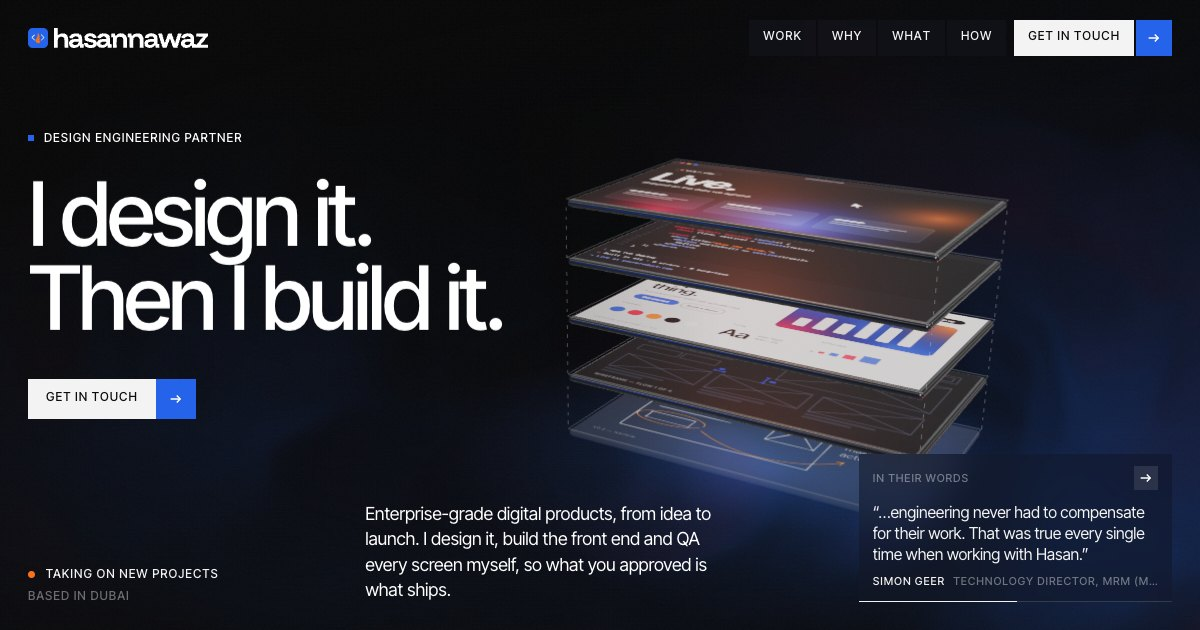
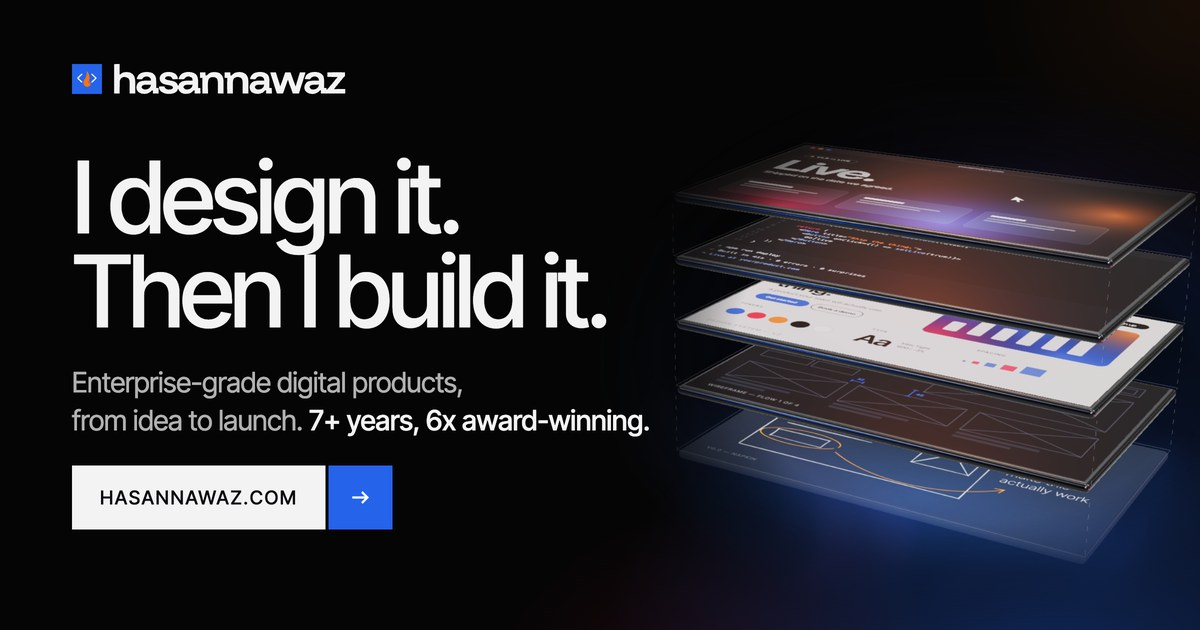
Designed link previews for the home page and every article
A 1200x630 card for the home page (headline, offer, CTA, the 3D stack) and one per
article with its title and read time. Adds og:image:alt and twitter:image, gives the
home card a new URL so cached previews refresh, and points the article template at
each article's own card.

diff --git a/thoughts/designing-for-habit.html b/thoughts/designing-for-habit.html
@@ -11,10 +11,12 @@
   <meta property="og:site_name" content="Hasan Nawaz">
   <meta property="og:title" content="Designing for Habit: How Small UX Decisions Drive Long-Term Engagement | Hasan Nawaz">
   <meta property="og:description" content="Building a product that people come back to isn’t just about flashy visuals or clever features. It’s about creating experiences that naturally fit into…">
-  <meta property="og:image" content="https://hasannawaz.com/assets/og.jpg">
+  <meta property="og:image" content="https://hasannawaz.com/assets/og/designing-for-habit.jpg">
+  <meta property="og:image:alt" content="Designing for Habit: How Small UX Decisions Drive Long-Term Engagement, by Hasan Nawaz">
   <meta property="og:image:width" content="1200">
   <meta property="og:image:height" content="630">
   <meta name="twitter:card" content="summary_large_image">
+  <meta name="twitter:image" content="https://hasannawaz.com/assets/og/designing-for-habit.jpg">
   <meta name="theme-color" content="#eceef1">
   <link rel="icon" href="../favicon.ico" sizes="48x48">
   <link rel="icon" href="../assets/favicon.svg" type="image/svg+xml">

diff --git a/thoughts/empty-states.html b/thoughts/empty-states.html
@@ -11,10 +11,12 @@
   <meta property="og:site_name" content="Hasan Nawaz">
   <meta property="og:title" content="The Power of Empty States: Why the First Blank Screen Matters | Hasan Nawaz">
   <meta property="og:description" content="When we think about product design, we often focus on the big things like the homepage, the main flow, or the dashboard full of data. But what about…">
-  <meta property="og:image" content="https://hasannawaz.com/assets/og.jpg">
+  <meta property="og:image" content="https://hasannawaz.com/assets/og/empty-states.jpg">
+  <meta property="og:image:alt" content="The Power of Empty States: Why the First Blank Screen Matters, by Hasan Nawaz">
   <meta property="og:image:width" content="1200">
   <meta property="og:image:height" content="630">
   <meta name="twitter:card" content="summary_large_image">
+  <meta name="twitter:image" content="https://hasannawaz.com/assets/og/empty-states.jpg">
   <meta name="theme-color" content="#eceef1">
   <link rel="icon" href="../favicon.ico" sizes="48x48">
   <link rel="icon" href="../assets/favicon.svg" type="image/svg+xml">

diff --git a/thoughts/dark-patterns.html b/thoughts/dark-patterns.html
@@ -11,10 +11,12 @@
   <meta property="og:site_name" content="Hasan Nawaz">
   <meta property="og:title" content="The Hidden Cost of Dark Patterns in Product Design | Hasan Nawaz">
   <meta property="og:description" content="Dark patterns are design choices that trick users into doing something they did not intend. They might boost short term metrics, but they almost always…">
-  <meta property="og:image" content="https://hasannawaz.com/assets/og.jpg">
+  <meta property="og:image" content="https://hasannawaz.com/assets/og/dark-patterns.jpg">
+  <meta property="og:image:alt" content="The Hidden Cost of Dark Patterns in Product Design, by Hasan Nawaz">
   <meta property="og:image:width" content="1200">
   <meta property="og:image:height" content="630">
   <meta name="twitter:card" content="summary_large_image">
+  <meta name="twitter:image" content="https://hasannawaz.com/assets/og/dark-patterns.jpg">
   <meta name="theme-color" content="#eceef1">
   <link rel="icon" href="../favicon.ico" sizes="48x48">
   <link rel="icon" href="../assets/favicon.svg" type="image/svg+xml">

diff --git a/thoughts/mlp-over-mvp.html b/thoughts/mlp-over-mvp.html
@@ -11,10 +11,12 @@
   <meta property="og:site_name" content="Hasan Nawaz">
   <meta property="og:title" content="MLP over MVP: why lovable is the better business bet | Hasan Nawaz">
   <meta property="og:description" content="For years, MVP was the default. Build the smallest thing that works, ship it, learn from it. That made sense when getting anything out the door was…">
-  <meta property="og:image" content="https://hasannawaz.com/assets/og.jpg">
+  <meta property="og:image" content="https://hasannawaz.com/assets/og/mlp-over-mvp.jpg">
+  <meta property="og:image:alt" content="MLP over MVP: why lovable is the better business bet, by Hasan Nawaz">
   <meta property="og:image:width" content="1200">
   <meta property="og:image:height" content="630">
   <meta name="twitter:card" content="summary_large_image">
+  <meta name="twitter:image" content="https://hasannawaz.com/assets/og/mlp-over-mvp.jpg">
   <meta name="theme-color" content="#eceef1">
   <link rel="icon" href="../favicon.ico" sizes="48x48">
   <link rel="icon" href="../assets/favicon.svg" type="image/svg+xml">

diff --git a/thoughts/accessibility.html b/thoughts/accessibility.html
@@ -11,10 +11,12 @@
   <meta property="og:site_name" content="Hasan Nawaz">
   <meta property="og:title" content="Accessibility is Not Optional in Product Design | Hasan Nawaz">
   <meta property="og:description" content="When we talk about good design, we often think about visuals, smooth interactions, or clever layouts. But the real test of design is whether people can…">
-  <meta property="og:image" content="https://hasannawaz.com/assets/og.jpg">
+  <meta property="og:image" content="https://hasannawaz.com/assets/og/accessibility.jpg">
+  <meta property="og:image:alt" content="Accessibility is Not Optional in Product Design, by Hasan Nawaz">
   <meta property="og:image:width" content="1200">
   <meta property="og:image:height" content="630">
   <meta name="twitter:card" content="summary_large_image">
+  <meta name="twitter:image" content="https://hasannawaz.com/assets/og/accessibility.jpg">
   <meta name="theme-color" content="#eceef1">
   <link rel="icon" href="../favicon.ico" sizes="48x48">
   <link rel="icon" href="../assets/favicon.svg" type="image/svg+xml">

diff --git a/thoughts/design-systems.html b/thoughts/design-systems.html
@@ -11,10 +11,12 @@
   <meta property="og:site_name" content="Hasan Nawaz">
   <meta property="og:title" content="Design Systems: The Secret to Product Momentum | Hasan Nawaz">
   <meta property="og:description" content="When most people hear the term design system , they picture a Figma file filled with buttons, color swatches, and typography rules. Clean, organized,…">
-  <meta property="og:image" content="https://hasannawaz.com/assets/og.jpg">
+  <meta property="og:image" content="https://hasannawaz.com/assets/og/design-systems.jpg">
+  <meta property="og:image:alt" content="Design Systems: The Secret to Product Momentum, by Hasan Nawaz">
   <meta property="og:image:width" content="1200">
   <meta property="og:image:height" content="630">
   <meta name="twitter:card" content="summary_large_image">
+  <meta name="twitter:image" content="https://hasannawaz.com/assets/og/design-systems.jpg">
   <meta name="theme-color" content="#eceef1">
   <link rel="icon" href="../favicon.ico" sizes="48x48">
   <link rel="icon" href="../assets/favicon.svg" type="image/svg+xml">

diff --git a/index.html b/index.html
@@ -12,10 +12,12 @@
   <meta property="og:site_name" content="Hasan Nawaz">
   <meta property="og:title" content="Hasan Nawaz | Design Engineering Partner">
   <meta property="og:description" content="I design it. Then I build it. Enterprise-grade digital products, from idea to launch.">
-  <meta property="og:image" content="https://hasannawaz.com/assets/og.jpg">
+  <meta property="og:image" content="https://hasannawaz.com/assets/og.jpg?v=2">
+  <meta property="og:image:alt" content="I design it. Then I build it. Hasan Nawaz, design engineering partner.">
   <meta property="og:image:width" content="1200">
   <meta property="og:image:height" content="630">
   <meta name="twitter:card" content="summary_large_image">
+  <meta name="twitter:image" content="https://hasannawaz.com/assets/og.jpg?v=2">
   <link rel="icon" href="favicon.ico" sizes="48x48">
   <link rel="icon" href="assets/favicon.svg" type="image/svg+xml">
   <link rel="apple-touch-icon" href="assets/apple-touch-icon.png">

diff --git a/scripts/build-articles.py b/scripts/build-articles.py
@@ -206,10 +206,13 @@ def page(a, nxt, nav):
   <meta property="og:site_name" content="Hasan Nawaz">
   <meta property="og:title" content="{e(a["title"])} | Hasan Nawaz">
   <meta property="og:description" content="{e(a["summary"])}">
-  <meta property="og:image" content="https://hasannawaz.com/assets/og.jpg">
+  <!-- each article has its own preview card at assets/og/<slug>.jpg; a new article needs one made -->
+  <meta property="og:image" content="https://hasannawaz.com/assets/og/{a["slug"]}.jpg">
+  <meta property="og:image:alt" content="{e(a["title"])}, by Hasan Nawaz">
   <meta property="og:image:width" content="1200">
   <meta property="og:image:height" content="630">
   <meta name="twitter:card" content="summary_large_image">
+  <meta name="twitter:image" content="https://hasannawaz.com/assets/og/{a["slug"]}.jpg">
   <meta name="theme-color" content="#eceef1">
   <link rel="icon" href="../favicon.ico" sizes="48x48">
   <link rel="icon" href="../assets/favicon.svg" type="image/svg+xml">
